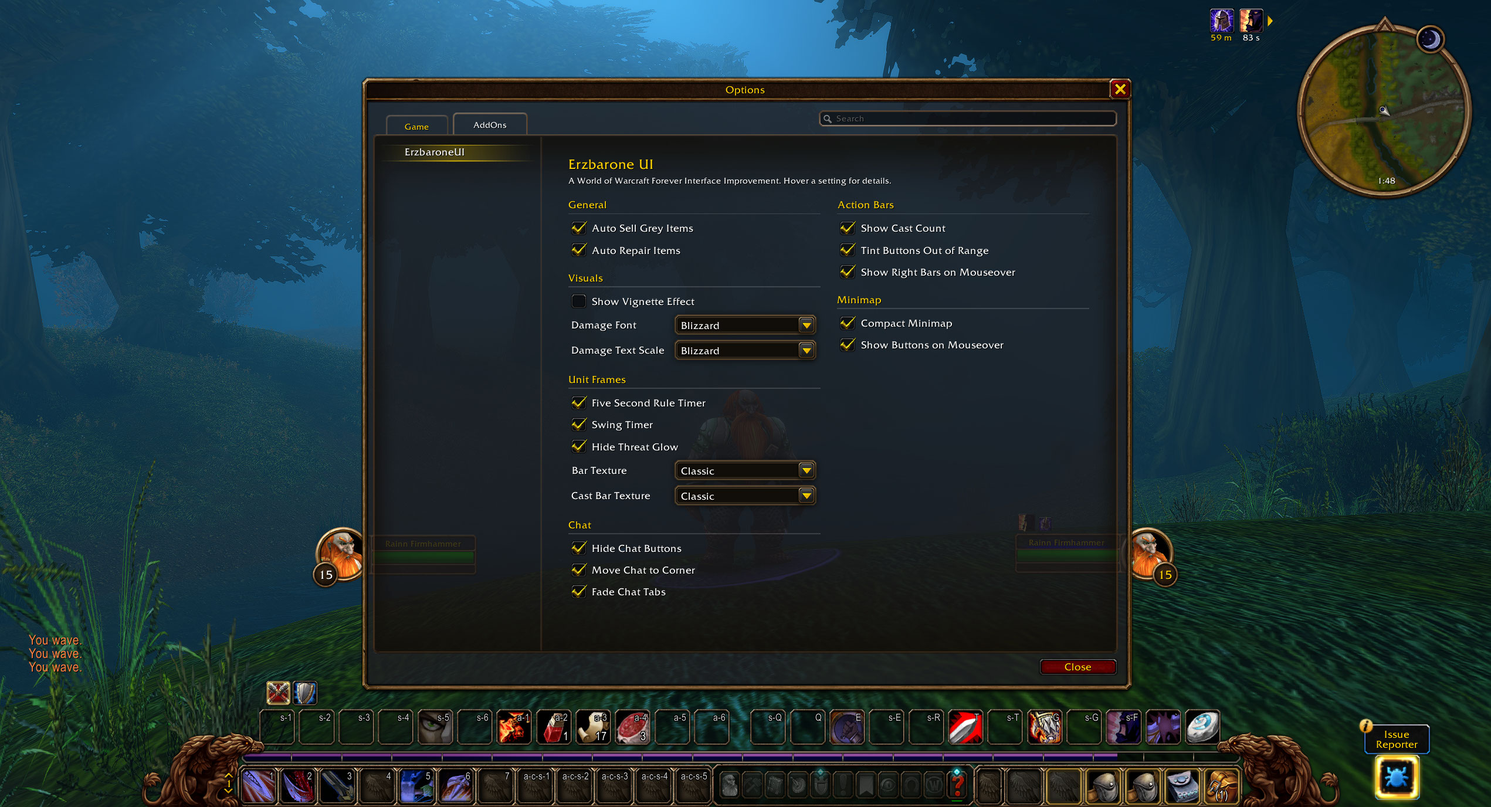
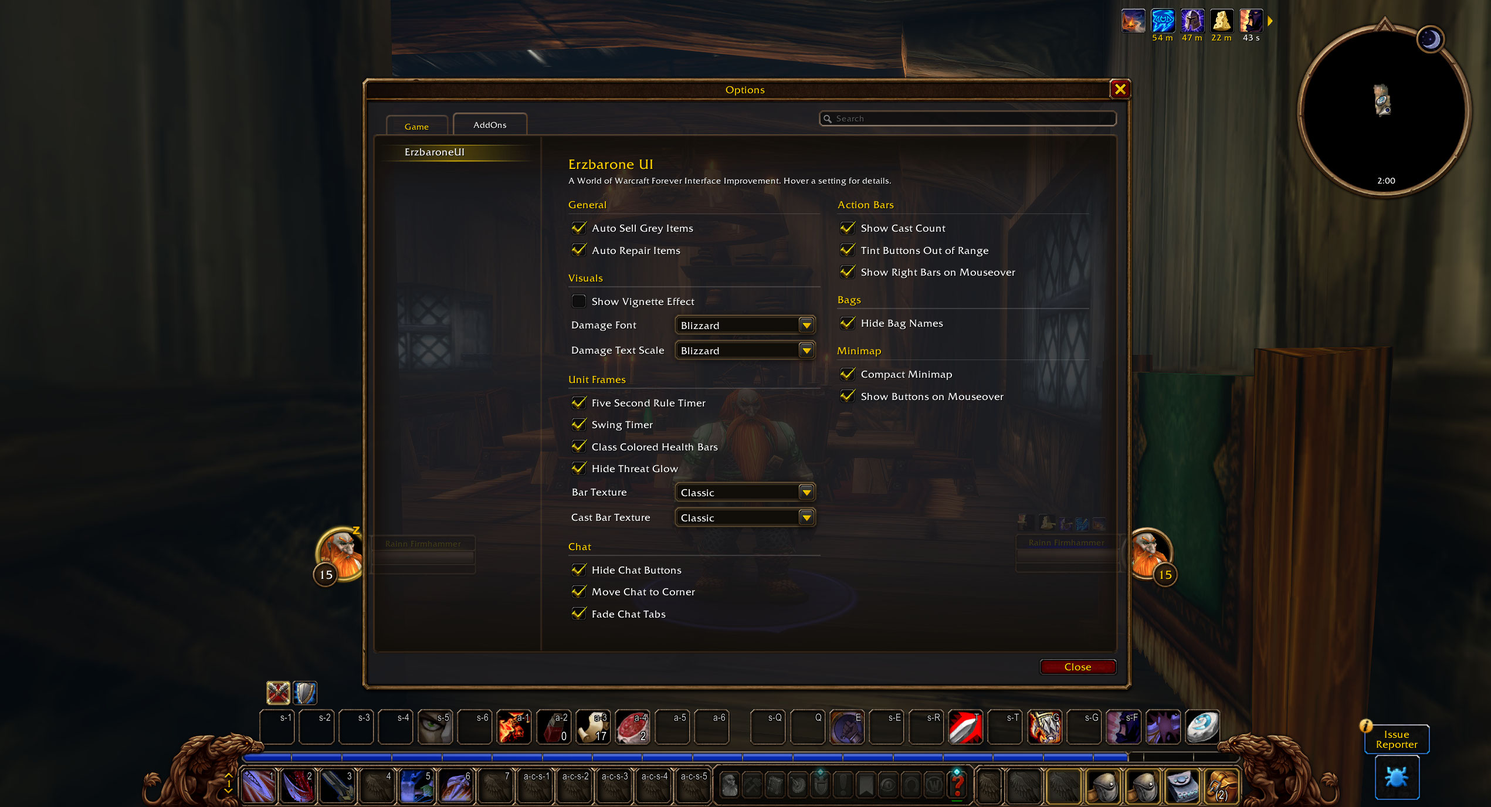
Added class colors, hide bag names, ranged swing timers.

diff --git a/README.md b/README.md
@@ -14,8 +14,9 @@ To open the configuration, go to Game Menu → Options → AddOns → ErzbaroneU
 - Optional vignette effect
 - Selectable font and size for the damage numbers above units (e.g. the classic Skurri font at 75%)
 - Five second rule timer on the player mana bar
-- Optional swing timer spark on the player power bar for melee fighters
+- Optional swing timer spark on the player power bar for melee and ranged fighters
 - Textured health and power bars on the unit frames (classic, smooth, skills or a custom `textures\statusbar` file), also selectable for the cast bars
+- Class colored health bars for players and grey health bars for creatures tapped by others
 - Optionally hides the large threat glow around the player, target and focus frames
 - Cast count on action buttons (how often a mana spell can be cast with the current mana)
 - Red tint on action buttons while the target is out of range
@@ -23,6 +24,7 @@ To open the configuration, go to Game Menu → Options → AddOns → ErzbaroneU
 - Moves the chat window into the lower left corner
 - Hides the chat tabs until the mouse is over the chat window
 - Hides the vertical action bars on the right until hovered
+- Hides the bag names in the bag windows
 - Compact minimap: removes the header, places tracking, calendar, mail and addon buttons on the minimap border and shows the server time inside the minimap; the buttons can be hidden until the minimap is hovered
 
 ## Screenshots
